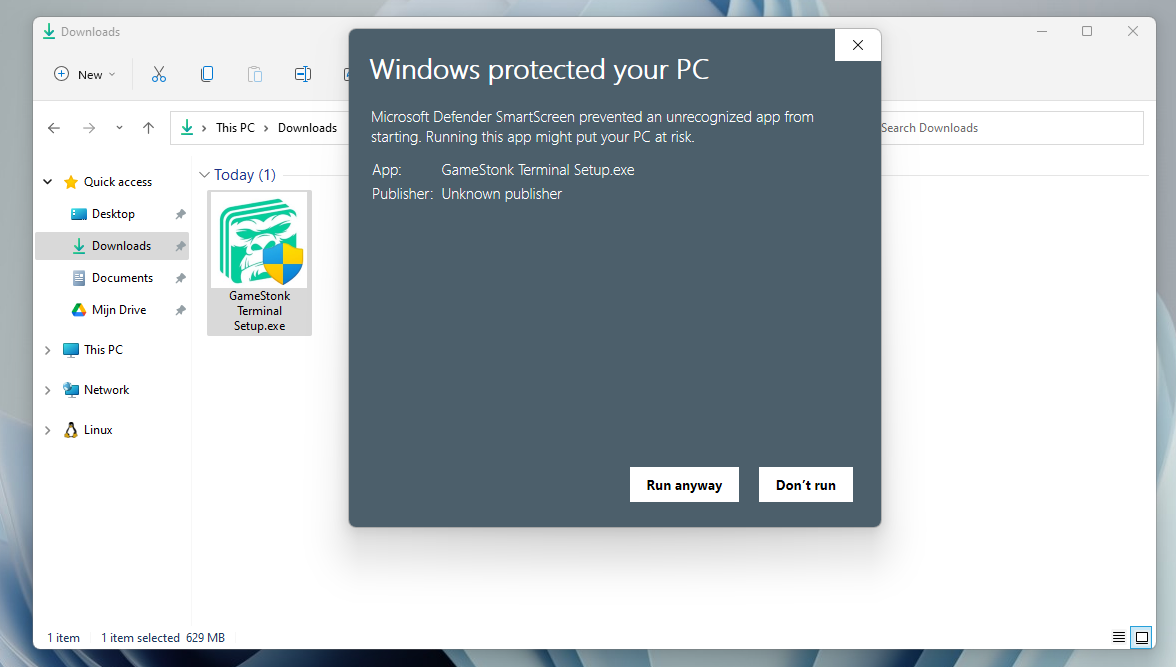
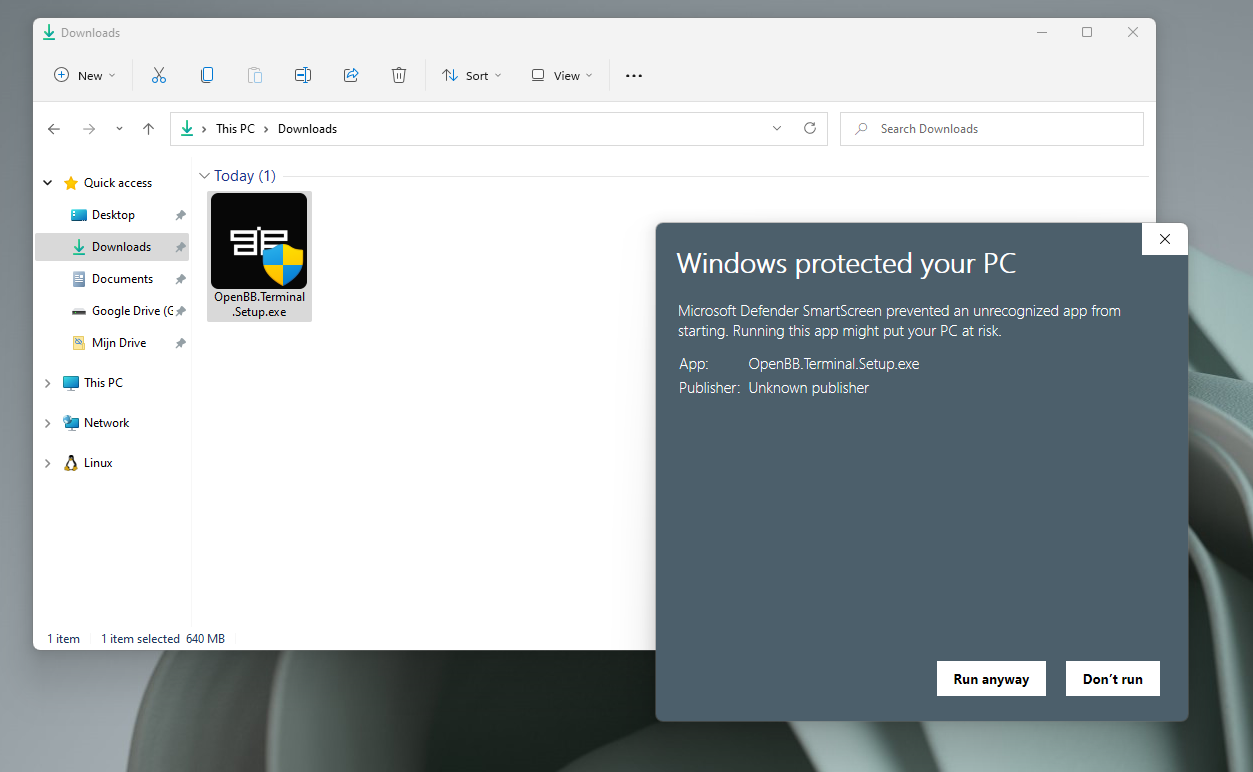
Redo images and update the README (#1591)
* Redo images and update the README

* Last fixes

diff --git a/openbb_terminal/README.md b/openbb_terminal/README.md
@@ -34,9 +34,11 @@ process and explain to you what each message means.
 
 ### Windows
 
-The process starts off by downloading the installer, see below for the most recent release:
+The process starts off by downloading the installer, see below for how to download the most recent release:
 
-- [Link to Windows installer](https://github.com/OpenBB-finance/OpenBBTerminal/releases/tag/v1.0.0)
+- Go to [the following link](https://github.com/OpenBB-finance/OpenBBTerminal/releases)
+- Click on the most recent release
+- Click on the ".exe" file:
 
 Then follow these steps:
 
@@ -48,9 +50,11 @@ Then follow these steps:
 
 ### macOS
 
-The process starts off by downloading the installer, see below for the most recent release:
+The process starts off by downloading the installer, see below for how to download the most recent release:
 
-- [Link to macOS installer](https://github.com/OpenBB-finance/OpenBBTerminal/releases/tag/v1.0.0)
+- Go to [the following link](https://github.com/OpenBB-finance/OpenBBTerminal/releases)
+- Click on the most recent release
+- Click on the ".dmg" file:
 
 Installation instructions:
 
@@ -65,7 +69,7 @@ files from the .dmg file.
 |:-------------------------------------------------------------------------------------------------------------------------------------------------------------------------------------------------------------------------------------------------------------------------------------------------------------------------------------------------------------------------------------------------------------------------------------------------------------------------------------------------------------------------------------------------------------------------------------------------------------------------------------------------------------------------------------------------------|:----------------------------------------------------------------------------------------------------------------------------------|
 | <div style="width:300px">It is possible you will see the image displayed on the right. This is because the installer is still in beta phase, and the team has not yet requested verification from Apple. Please see below how to correct for this.</div>                                                                                                                                                                                                                                                                                                                                                                                                                                               | <p align="center"><img src="../images/installation/macos/malicious_software_warning.png" alt="software warning" width="500"/></p> |
 | <div style="width:300px">**Option 1 (via MacOS settings):** <br><br> 1) Run the file. You will most likely receive a message that macOS was not able to check whether the application contains malicious software. The reasoning for this is described above. <br> 2) Go to System Preferences > Security & Privacy > General. You should see a message at the bottom that says that the file "was blocked from use because it is not from an identified developer". Click on “Allow anyway” or "Open anyway".<br> 3) If you receive the above message multiple times on different files, keep allowing the files via Step 2 or use Option 2.<br> 4) You should now be able to launch the application. | <p align="center"><img src="../images/installation/macos/option_one_warning_fix.png" alt="option 1 warning fix" width="500"/></p> |
- | <div style="width:300px">**Option 2 (via Terminal):** <br><br> 1) Run the file. You will most likely receive a message that macOS was not able to check whether the application contains malicious software. The reasoning for this is described in the note above. <br> 2) Open the "Terminal" application. This can be done by using Command (⌘) + Space and typing "terminal". <br> 3) Within this "Terminal" application, assuming you moved the file to the Applications folder, enter the following command: `xattr -r -d com.apple.quarantine "/Applications/Gamestonk Terminal"`<br> 4) You should now be able to launch the application.                                                      | <p align="center"><img src="../images/installation/macos/option_two_warning_fix.png" alt="option 2 warning fix" width="500"/></p> |
+ | <div style="width:300px">**Option 2 (via Terminal):** <br><br> 1) Run the file. You will most likely receive a message that macOS was not able to check whether the application contains malicious software. The reasoning for this is described in the note above. <br> 2) Open the "Terminal" application. This can be done by using Command (⌘) + Space and typing "terminal". <br> 3) Within this "Terminal" application, assuming you moved the file to the Applications folder, enter the following command: `xattr -r -d com.apple.quarantine "/Applications/OpenBB Terminal"`<br> 4) You should now be able to launch the application.                                                         | <p align="center"><img src="../images/installation/macos/option_two_warning_fix.png" alt="option 2 warning fix" width="500"/></p> |
 
 ## Developer
 
